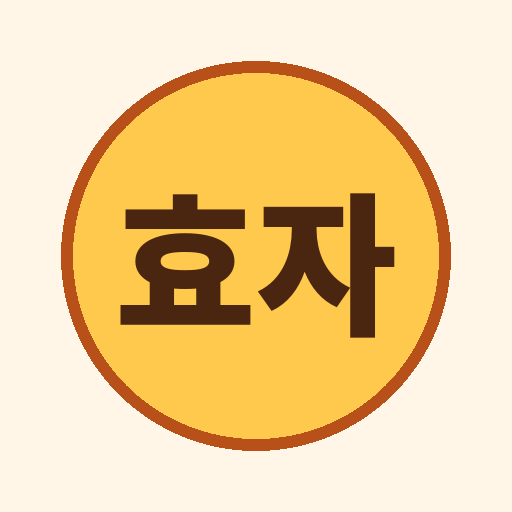
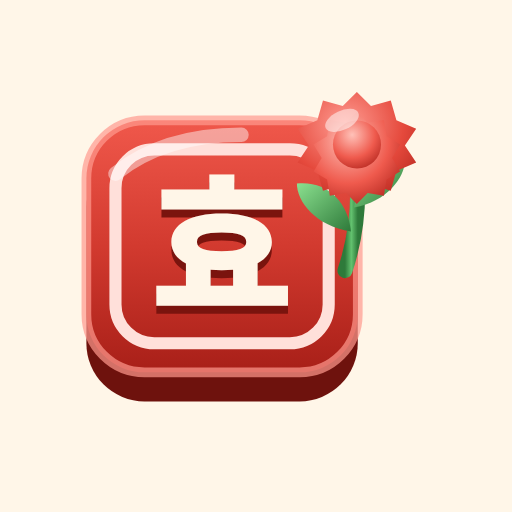
홈 화면 제목 옆 로고(붉은 도장+카네이션), 앱 아이콘·공유 그림 교체
Claude-Session: https://claude.ai/code/session_01KQWCpySvHURJmkvSLJXQJb

diff --git a/index.html b/index.html
@@ -35,11 +35,39 @@ a:nth-of-type(3n) svg[role=img]{animation-delay:-1.6s}
 <meta name="mobile-web-app-capable" content="yes">
 <meta name="apple-mobile-web-app-title" content="효자 용인">
 </head>
-<body style="margin:0; background:#FFF6E8">
+<body style="margin:0; background:#FFF6E8"><svg width="0" height="0"><defs>
+<radialGradient id="pet" cx=".4" cy=".3" r=".9"><stop offset="0" stop-color="#FF9C92"/><stop offset=".55" stop-color="#E5493C"/><stop offset="1" stop-color="#A81F18"/></radialGradient>
+<radialGradient id="pet2" cx=".5" cy=".35" r=".8"><stop offset="0" stop-color="#F26A5E"/><stop offset="1" stop-color="#8E1812"/></radialGradient>
+<radialGradient id="pet3" cx=".4" cy=".3" r=".8"><stop offset="0" stop-color="#FFC1B8"/><stop offset=".6" stop-color="#EF5A4D"/><stop offset="1" stop-color="#B3261E"/></radialGradient>
+<linearGradient id="stem" x1="0" x2="1"><stop offset="0" stop-color="#2E7A3A"/><stop offset=".5" stop-color="#63C26F"/><stop offset="1" stop-color="#2E7A3A"/></linearGradient>
+<linearGradient id="leaf" x1="0" y1="0" x2="1" y2="1"><stop offset="0" stop-color="#8BE08F"/><stop offset="1" stop-color="#2E7A3A"/></linearGradient>
+<radialGradient id="hrt" cx=".35" cy=".25" r=".85"><stop offset="0" stop-color="#FF9A8F"/><stop offset=".5" stop-color="#E5493C"/><stop offset="1" stop-color="#9E1B15"/></radialGradient>
+<linearGradient id="hand" x1="0" y1="0" x2="0" y2="1"><stop offset="0" stop-color="#FFD9AE"/><stop offset=".6" stop-color="#F0A765"/><stop offset="1" stop-color="#C97A34"/></linearGradient>
+<linearGradient id="seal" x1="0" y1="0" x2="0" y2="1"><stop offset="0" stop-color="#F0584B"/><stop offset=".5" stop-color="#D23A2F"/><stop offset="1" stop-color="#A81F18"/></linearGradient>
+</defs></svg>
 <div style="width: 100%; max-width: 480px; margin: 0 auto; min-height: 1500px; box-sizing: border-box; background: #FFF6E8; color: #3B2314; font-family: 'Noto Sans KR', system-ui, sans-serif; display: flex; flex-direction: column">
 <div id="zoomBox" style="display: flex; flex-direction: column; flex: 1">
 <div style="background: #FFE7B5; color: #5A3300; font-size: 17px; line-height: 1.4; padding: 10px 20px; text-align: center">복지·혜택, 일자리, 건강교실, 이동·교통은 용인시청 누리집에서 확인한 내용이에요.</div><div style="display: flex; flex-direction: column; gap: 18px; padding: 20px 20px 24px"><div style="display: flex; align-items: center; justify-content: space-between; gap: 12px">
-<div style="font-size: 32px; line-height: 1.1; font-weight: 900; color: #4A2610; letter-spacing: -1px; text-shadow: 0 3px 0 #F3C48E, 0 6px 8px rgba(120,60,10,.25)">효자 용인</div>
+<div style="display:flex;align-items:center;gap:10px"><svg role="img" aria-hidden="true" style="flex:none" width="64" height="58" viewBox="0 0 78 70" >
+<ellipse cx="34" cy="68" rx="26" ry="3.5" fill="#5A300F" opacity=".3"/>
+<g transform="translate(0 4)">
+<rect x="4" y="9" width="56" height="52" rx="12" fill="#6E120D"/>
+<rect x="4" y="3" width="56" height="52" rx="12" fill="url(#seal)"/>
+<rect x="4" y="3" width="56" height="52" rx="12" fill="none" stroke="#FF9A8F" stroke-opacity=".7" stroke-width="2"/>
+<rect x="10" y="9" width="44" height="40" rx="8" fill="none" stroke="#FFE0DA" stroke-width="2.5"/>
+<text x="32" y="41" font-size="32" font-weight="900" fill="#7A140E" text-anchor="middle" font-family="Noto Sans CJK KR" transform="translate(0 1.5)">효</text>
+<text x="32" y="41" font-size="32" font-weight="900" fill="#FFF6E8" text-anchor="middle" font-family="Noto Sans CJK KR">효</text>
+<path d="M10 14 q10-8 26-8" stroke="#fff" stroke-opacity=".45" stroke-width="3" fill="none" stroke-linecap="round"/>
+</g>
+<g transform="translate(40 -6) scale(.62)">
+<path d="M32 38 C33 52 31 62 28 71" stroke="url(#stem)" stroke-width="5" fill="none" stroke-linecap="round"/>
+<path d="M30 58 C18 56 12 48 12 42 C22 41 29 48 30 58Z" fill="url(#leaf)"/>
+<path d="M31 50 C42 48 48 40 48 34 C38 34 32 41 31 50Z" fill="url(#leaf)"/>
+<path d="M32 8 l5 5 7-2 2 7 7 3-4 6 4 6-7 3-2 7-7-2-5 5-5-5-7 2-2-7-7-3 4-6-4-6 7-3 2-7 7 2z" fill="url(#pet)" transform="translate(0 4) scale(.94) translate(2 0)"/>
+<path d="M32 18 l4 4 6-1 1 6 5 3-3 5 3 5-5 3-1 6-6-1-4 4-4-4-6 1-1-6-5-3 3-5-3-5 5-3 1-6 6 1z" fill="url(#pet3)" transform="translate(0 2) scale(.9) translate(3.5 0)"/>
+<circle cx="32" cy="29" r="8" fill="url(#pet3)"/>
+<ellipse cx="27" cy="21" rx="6" ry="3.2" fill="#fff" opacity=".5" transform="rotate(-25 27 21)"/>
+</g></svg><div style="font-size: 32px; line-height: 1.1; font-weight: 900; color: #4A2610; letter-spacing: -1px; text-shadow: 0 3px 0 #F3C48E, 0 6px 8px rgba(120,60,10,.25)">효자 용인</div></div>
 <button type="button" style="min-height: 48px; padding: 0 16px; border-radius: 24px; border: 2px solid #D9A066; background: #FFFFFF; color: #7A3510; font-family: inherit; font-size: 18px; font-weight: 700; box-shadow: 0 4px 0 #E8C79B">용인시 ▾</button>
 </div><a href="Emergency.html" style="background: linear-gradient(180deg,#E5493C,#B3261E); color: #FFFFFF; border-radius: 22px; padding: 12px 18px; min-height: 76px; box-sizing: border-box; display: flex; align-items: center; gap: 12px; box-shadow: 0 6px 0 #8A1A14, 0 10px 18px rgba(138,26,20,.25)">
 <svg width="54" height="54" viewBox="0 0 80 80" role="img" aria-hidden="true" style="flex:none"><defs><linearGradient id="g13a" x1="0" y1="0" x2="0" y2="1"><stop offset="0" stop-color="#FF9A8F"/><stop offset="1" stop-color="#D23A2F"/></linearGradient></defs><ellipse cx="40" cy="72" rx="24" ry="5" fill="#8A4B1F" opacity=".22"/><path d="M22 56V38a18 18 0 0 1 36 0v18Z" fill="url(#g13a)"/><rect x="16" y="56" width="48" height="12" rx="5" fill="#8A4B1F"/><ellipse cx="32" cy="34" rx="5" ry="9" fill="#fff" opacity=".5" transform="rotate(20 32 34)"/><path d="M40 8v7M18 18l5 5M62 18l-5 5" stroke="#F2A81F" stroke-width="4" stroke-linecap="round"/></svg>
